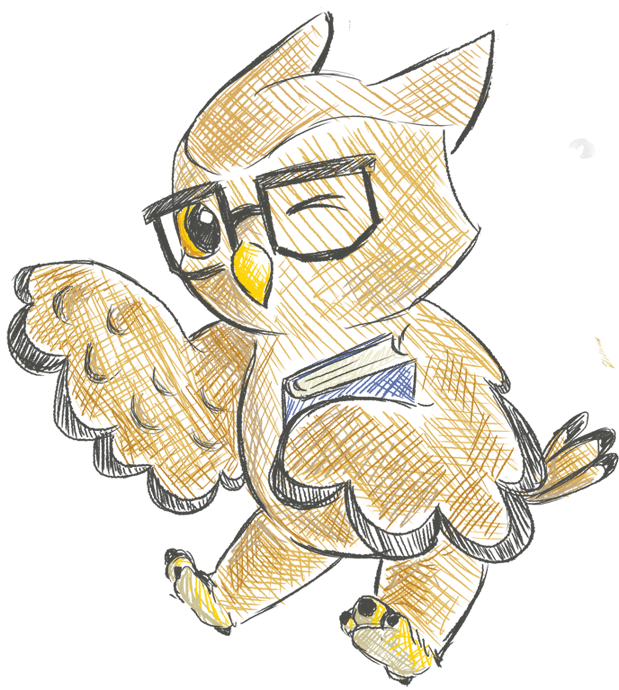
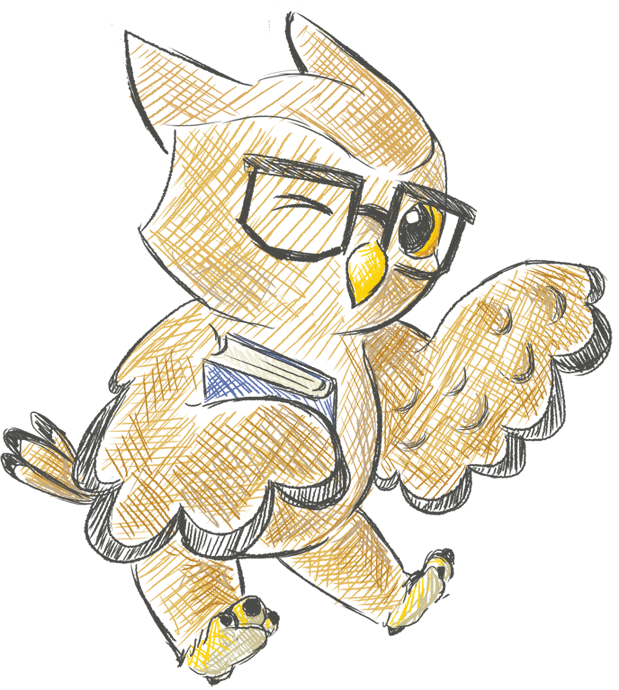
moved nav and balanced the white spaces, made the navs properly link

diff --git a/public/css/style.css b/public/css/style.css
@@ -62,6 +62,7 @@ html, body {
   background-image: url(../img/menu/mainlogo_pencil.png);
   background-size: 300px 70px;
   width: 300px;
+  margin-right: 35px;
 }
 
 #menu-buy {
@@ -83,11 +84,11 @@ html, body {
 
 #menu-sell:active {
   background-image: url(../img/menu/sell_click_fixed.png);
-  background-position: 5px 10px;
+  background-position: 8px 8px;
 }
 
 #menu-login {
-  width: 190px;
+  width: 60px;
   position: absolute;
   top: 10px;
   right: 0px;
@@ -118,14 +119,14 @@ h2 {
 
 .stuff-wrapper {
   float: left;
-  width: 650px;
+  width: 600px;
   height: 300px;
 }
 
 .browl-wrapper {
   float:left;
   height:400px;
-  width:300px;
+  width:320px;
   position:relative;
 }
 .browl {
@@ -134,14 +135,12 @@ h2 {
   text-align:center;
   margin:auto;
 }
-.browl-welcome {
-  -moz-transform: scaleX(-1);
-  -o-transform: scaleX(-1);
-  -webkit-transform: scaleX(-1);
-  transform: scaleX(-1);
-  filter: FlipH;
- -ms-filter: "FlipH"; 
+
+.browl img {
+  margin-left: 40px;
+  width: 280px;
 }
+
 
 .stuff {
   width:100%;

diff --git a/public/index.html b/public/index.html
@@ -31,11 +31,11 @@
     </script>
     <div id="notFooter">
       <div id="menu">
-        <div class="menu-item" id="menu-home"><a href="#/"></a></div>
-        <div class="menu-item" id="menu-buy"><a href="#/buy"></a></div>
-        <div id="menu-sell" class="menu-item"><a href="#/sell"></a></div>
+        <a href="#/"><div class="menu-item" id="menu-home"></div></a>
+        <a href="#/buy"><div class="menu-item" id="menu-buy"></div></a>
+        <a href="#/sell"><div id="menu-sell" class="menu-item"></div></a>
         <!--<a><div id="menu-login" class="menu-item"></div></a>-->
-        <div id="menu-login" class="fb-login-button menu-item">Login to Buy from Friends</div>
+        <div id="menu-login" class="fb-login-button menu-item">Login</div>
       </div>
       <div id="paper-header"></div>
       <div id="content">

diff --git a/public/template/home/main.html b/public/template/home/main.html
@@ -6,7 +6,7 @@
   <div class="image-stuff-wrapper">
     <div class="browl-wrapper">
       <div class="browl">
-      <img class = 'browl-welcome' src="/img/browl_welcome.png" width='250px'></img>
+        <img src="/img/browl_welcome.png"></img>
       </div>
     </div>
     <div class="stuff-wrapper">
@@ -15,7 +15,7 @@
         <div id="home-buttons-wrapper">
           <button id="home-buy-button" class='btn btn-primary home-buy-sell-button'>I want to buy!</button>
           <button id="home-sell-button" class='btn btn-primary home-buy-sell-button'>I want to sell!</button>
+        </div>
       </div>
     </div>
   </div>
-</div>

diff --git a/public/template/sell/main.html b/public/template/sell/main.html
@@ -6,9 +6,9 @@
 
   <div class="image-stuff-wrapper">
     <div class="browl-wrapper">
-      <div class = 'browl'>
-      <img class = 'browl-sell' src="/img/browl_sell.png" width='250px'></img>
-    </div>
+      <div class='browl'>
+        <img src="/img/browl_sell.png"></img>
+      </div>
     </div>
     <div class="stuff-wrapper">
       <div class="stuff"></div>

diff --git a/public/template/buy/main.html b/public/template/buy/main.html
@@ -6,9 +6,9 @@
 
   <div class="image-stuff-wrapper">
     <div class="browl-wrapper">
-      <div class = 'browl'>
-      <img class = 'browl-buy' src="/img/browl_buy.png" width='250px'></img>
-    </div>
+      <div class='browl'>
+        <img src="/img/browl_buy.png"></img>
+      </div>
     </div>
     <div class="stuff-wrapper">
       <div class="stuff">
